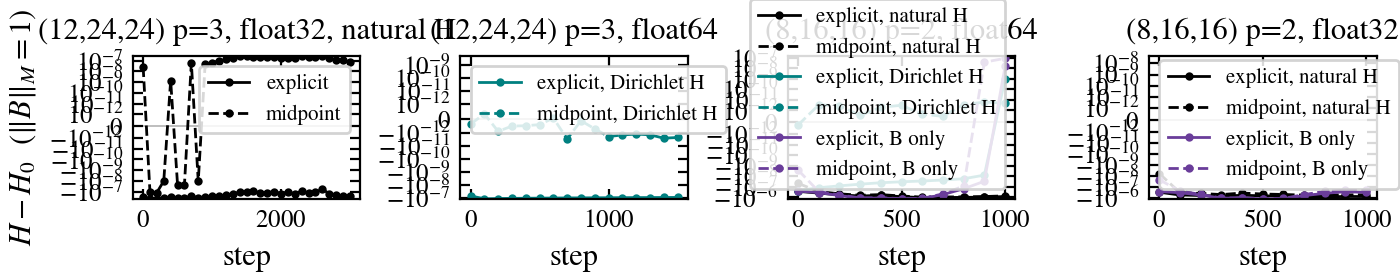
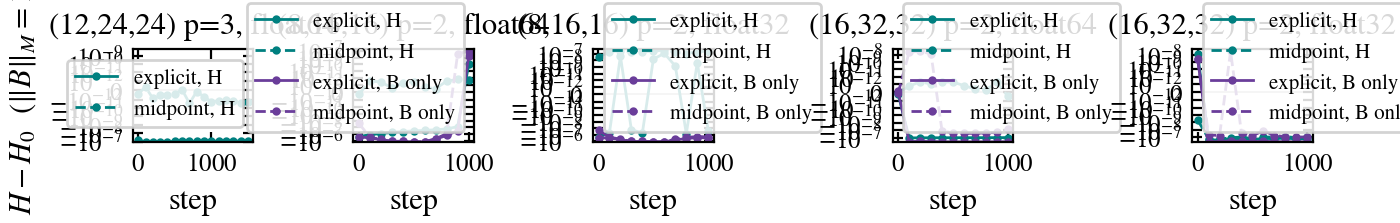
midpoint figures on midpoint-r16: Dirichlet-H and B arms only (cherry-pick of 2ffa6b8 without the pre-prune launcher), the 2x2x2 figure on the (16,32,32) arms, figures regenerated

diff --git a/scripts/midpoint_figures.py b/scripts/midpoint_figures.py
@@ -4,9 +4,11 @@
 
 Reads ``<root>/<arm>/relax.json`` and writes ``<root>/figures/*.png`` plus
 ``<root>/summary.md``. House style (:mod:`mrx.plotstyle`): colour encodes
-the H space (black natural, teal Dirichlet, purple B-only), dash the scheme
-(solid explicit, dashed midpoint); per-step traces are 100-step block means
-with a +-1 sd ribbon (``scripts/li383_pub_figures.blocked``).
+the route (teal the Dirichlet H, purple B only), dash the scheme (solid
+explicit, dashed midpoint); per-step traces are 100-step block means with
+a +-1 sd ribbon (``scripts/li383_pub_figures.blocked``). The natural-H
+arms are not plotted: with E Dirichlet and H natural the helicity pairing
+is not the conserved one (see the note); they stay in the summary table.
 """
 import argparse
 import json
@@ -17,36 +19,45 @@ import numpy as np
 from li383_pub_figures import plot_trace, plt  # scripts/ is sys.path[0]; sets the Agg backend
 from mrx.plotstyle import arm_style, figsize, house_style
 
-#: arm -> (panel, colour index, dash index, label)
+#: plotted arm -> (panel, colour index, dash index, label)
 ARMS = {
-    "ex_lbfgs":           ("f32", 0, 0, "explicit"),
-    "mp_lbfgs":           ("f32", 0, 1, "midpoint"),
-    "ex_lbfgs_f64_Hd":    ("f64", 1, 0, "explicit, Dirichlet H"),
-    "mp_lbfgs_f64_Hd":    ("f64", 1, 1, "midpoint, Dirichlet H"),
-    "ex_small_f64":       ("small", 0, 0, "explicit, natural H"),
-    "mp_small_f64":       ("small", 0, 1, "midpoint, natural H"),
-    "ex_small_f64_Hd":    ("small", 1, 0, "explicit, Dirichlet H"),
-    "mp_small_f64_Hd":    ("small", 1, 1, "midpoint, Dirichlet H"),
+    "ex_lbfgs_f64_Hd":    ("f64", 1, 0, "explicit, H"),
+    "mp_lbfgs_f64_Hd":    ("f64", 1, 1, "midpoint, H"),
+    "ex_small_f64_Hd":    ("small", 1, 0, "explicit, H"),
+    "mp_small_f64_Hd":    ("small", 1, 1, "midpoint, H"),
     "ex_small_f64_bonly": ("small", 2, 0, "explicit, B only"),
     "mp_small_f64_bonly": ("small", 2, 1, "midpoint, B only"),
-    "ex_small_f32":       ("small32", 0, 0, "explicit, natural H"),
-    "mp_small_f32":       ("small32", 0, 1, "midpoint, natural H"),
+    "ex_small_f32_Hd":    ("small32", 1, 0, "explicit, H"),
+    "mp_small_f32_Hd":    ("small32", 1, 1, "midpoint, H"),
     "ex_small_f32_bonly": ("small32", 2, 0, "explicit, B only"),
     "mp_small_f32_bonly": ("small32", 2, 1, "midpoint, B only"),
+    "ex_r16_f64_Hd":      ("r16", 1, 0, "explicit, H"),
+    "mp_r16_f64_Hd":      ("r16", 1, 1, "midpoint, H"),
+    "ex_r16_f64_bonly":   ("r16", 2, 0, "explicit, B only"),
+    "mp_r16_f64_bonly":   ("r16", 2, 1, "midpoint, B only"),
+    "ex_r16_f32_Hd":      ("r16_32", 1, 0, "explicit, H"),
+    "mp_r16_f32_Hd":      ("r16_32", 1, 1, "midpoint, H"),
+    "ex_r16_f32_bonly":   ("r16_32", 2, 0, "explicit, B only"),
+    "mp_r16_f32_bonly":   ("r16_32", 2, 1, "midpoint, B only"),
 }
+#: every arm of the study, for the summary table
+ALL_ARMS = ("ex_lbfgs", "mp_lbfgs", "ex_small_f64", "mp_small_f64",
+            "ex_small_f32", "mp_small_f32") + tuple(ARMS)
 PANELS = {
-    "f32": "(12,24,24) p=3, float32, natural H",
     "f64": "(12,24,24) p=3, float64",
     "small": "(8,16,16) p=2, float64",
     "small32": "(8,16,16) p=2, float32",
+    "r16": "(16,32,32) p=2, float64",
+    "r16_32": "(16,32,32) p=2, float32",
 }
-#: The 2 x 2 x 2 comparison: (precision, route) -> (explicit arm, midpoint arm)
+#: The 2 x 2 x 2 comparison on (16,32,32) p=2: (precision, route) -> (explicit arm, midpoint arm)
 EIGHT = {
-    ("float32", "H"): ("ex_small_f32", "mp_small_f32"),
-    ("float32", "B"): ("ex_small_f32_bonly", "mp_small_f32_bonly"),
-    ("float64", "H"): ("ex_small_f64", "mp_small_f64"),
-    ("float64", "B"): ("ex_small_f64_bonly", "mp_small_f64_bonly"),
+    ("float32", "H"): ("ex_r16_f32_Hd", "mp_r16_f32_Hd"),
+    ("float32", "B"): ("ex_r16_f32_bonly", "mp_r16_f32_bonly"),
+    ("float64", "H"): ("ex_r16_f64_Hd", "mp_r16_f64_Hd"),
+    ("float64", "B"): ("ex_r16_f64_bonly", "mp_r16_f64_bonly"),
 }
+EIGHT_MESH = "(16,32,32) p=2"
 
 
 def load(root, arm):
@@ -135,13 +146,13 @@ def picard_figure(arms, figdir):
 
 @house_style()
 def eight_figure(arms, figdir):
-    """Helicity and force traces of (route H / B only) x (float32 / float64) x
-    (explicit / midpoint) on the (8,16,16) p=2 mesh: rows the quantity,
+    """Helicity and force traces of (H / B only) x (float32 / float64) x
+    (explicit / midpoint) on the ``EIGHT_MESH`` mesh: rows the quantity,
     columns the precision, colour the route, dash the scheme."""
     d = dict(arms)
     fig, axes = plt.subplots(2, 2, figsize=figsize("text", rows=2, cols=2, aspect=0.7))
     for col, prec in enumerate(("float32", "float64")):
-        for route, colour in (("H", 0), ("B", 2)):
+        for route, colour in (("H", 1), ("B", 2)):
             for dash, arm in enumerate(EIGHT[(prec, route)]):
                 if arm not in d:
                     continue
@@ -153,7 +164,7 @@ def eight_figure(arms, figdir):
                 plot_trace(axes[1, col], j["trace"]["resid"], log=True, **st)
         axes[0, col].axhline(0, color="0.7", lw=0.6, zorder=0)
         axes[0, col].set_yscale("symlog", linthresh=1e-12)
-        axes[0, col].set(title=f"(8,16,16) p=2, {prec}", xlabel="step")
+        axes[0, col].set(title=f"{EIGHT_MESH}, {prec}", xlabel="step")
         axes[1, col].set(xscale="log", yscale="log", xlabel="step")
         axes[0, col].legend()
     axes[0, 0].set_ylabel(r"$H - H_0$  ($\|B\|_M = 1$)")
@@ -186,17 +197,17 @@ def summary(arms):
 def main():
     ap = argparse.ArgumentParser()
     ap.add_argument("--root", default="outputs/midpoint_sweep")
-    ap.add_argument("--arms", default=",".join(ARMS))
     cli = ap.parse_args()
-    arms = [(a, load(cli.root, a)) for a in cli.arms.split(",")]
-    arms = [(a, j) for a, j in arms if j is not None and j.get("trace")]
+    every = [(a, load(cli.root, a)) for a in ALL_ARMS]
+    every = [(a, j) for a, j in every if j is not None and j.get("trace")]
+    arms = [(a, j) for a, j in every if a in ARMS]
     figdir = os.path.join(cli.root, "figures")
     os.makedirs(figdir, exist_ok=True)
     helicity_figure(arms, figdir)
     descent_figure(arms, figdir)
     picard_figure(arms, figdir)
     eight_figure(arms, figdir)
-    table = summary(arms)
+    table = summary(every)
     with open(os.path.join(cli.root, "summary.md"), "w") as fh:
         fh.write(table + "\n")
     print(table)

diff --git a/docs/research/implicit_midpoint_2026-09-04/summary.md b/docs/research/implicit_midpoint_2026-09-04/summary.md
@@ -2,15 +2,25 @@
 |---|---|---|---|---|---|---|---|---|---|---|---|
 | ex_lbfgs | 3000 | steps | 0.50 | 1.00 | 0 | 0 | 0.0146% | 3.438e-03 (3.327e-03) | 1.80e-07 | -2.813e-07 | -5.622e-05 |
 | mp_lbfgs | 3000 | steps | 0.50 | 2.02 | 0 | 0 | 0.0145% | 3.045e-03 (3.273e-03) | 5.55e-05 | +7.031e-08 | +1.406e-05 |
-| ex_lbfgs_f64_Hd | 1500 | steps | 1.84 | 1.00 | 0 | 0 | 0.0179% | 1.707e-02 (1.421e-02) | 3.34e-13 | -8.693e-08 | -1.738e-05 |
-| mp_lbfgs_f64_Hd | 1500 | steps | 1.86 | 3.66 | 0 | 0 | 0.0179% | 1.172e-02 (1.432e-02) | 2.96e-05 | -2.151e-12 | -4.300e-10 |
 | ex_small_f64 | 1000 | steps | 0.37 | 1.00 | 0 | 0 | 0.0152% | 1.102e-03 (1.240e-03) | 1.42e-12 | -8.126e-07 | -1.629e-04 |
 | mp_small_f64 | 1000 | steps | 0.39 | 3.54 | 0 | 0 | 0.0151% | 1.132e-03 (1.241e-03) | 5.61e-05 | -7.033e-07 | -1.410e-04 |
+| ex_small_f32 | 1000 | steps | 0.17 | 1.00 | 0 | 0 | 0.0151% | 1.173e-03 (1.361e-03) | 1.54e-07 | -7.390e-07 | -1.482e-04 |
+| mp_small_f32 | 1000 | steps | 0.17 | 2.01 | 0 | 0 | 0.0150% | 1.466e-03 (1.445e-03) | 5.62e-05 | -5.024e-07 | -1.007e-04 |
+| ex_lbfgs_f64_Hd | 1500 | steps | 1.84 | 1.00 | 0 | 0 | 0.0179% | 1.707e-02 (1.421e-02) | 3.34e-13 | -8.693e-08 | -1.738e-05 |
+| mp_lbfgs_f64_Hd | 1500 | steps | 1.86 | 3.66 | 0 | 0 | 0.0179% | 1.172e-02 (1.432e-02) | 2.96e-05 | -2.151e-12 | -4.300e-10 |
 | ex_small_f64_Hd | 1000 | steps | 0.38 | 1.00 | 0 | 0 | 0.0257% | 5.371e-03 (6.063e-03) | 2.59e-13 | +9.868e-10 | +1.979e-07 |
 | mp_small_f64_Hd | 1000 | steps | 0.39 | 3.94 | 0 | 0 | 0.0257% | 5.637e-03 (6.154e-03) | 5.82e-05 | +4.871e-12 | +9.767e-10 |
 | ex_small_f64_bonly | 1000 | steps | 0.37 | 1.00 | 0 | 0 | 0.0156% | 1.435e-03 (1.465e-03) | 1.41e-12 | +1.443e-08 | +2.893e-06 |
 | mp_small_f64_bonly | 1000 | steps | 0.37 | 3.96 | 0 | 0 | 0.0155% | 1.283e-03 (1.454e-03) | 5.65e-05 | +8.506e-08 | +1.706e-05 |
-| ex_small_f32 | 1000 | steps | 0.17 | 1.00 | 0 | 0 | 0.0151% | 1.173e-03 (1.361e-03) | 1.54e-07 | -7.390e-07 | -1.482e-04 |
-| mp_small_f32 | 1000 | steps | 0.17 | 2.01 | 0 | 0 | 0.0150% | 1.466e-03 (1.445e-03) | 5.62e-05 | -5.024e-07 | -1.007e-04 |
+| ex_small_f32_Hd | 1000 | steps | 0.17 | 1.00 | 0 | 0 | 0.0253% | 5.855e-03 (6.539e-03) | 1.56e-07 | -2.328e-08 | -4.669e-06 |
+| mp_small_f32_Hd | 1000 | steps | 0.17 | 2.05 | 0 | 0 | 0.0255% | 5.835e-03 (6.269e-03) | 5.83e-05 | +2.393e-07 | +4.799e-05 |
 | ex_small_f32_bonly | 1000 | steps | 0.16 | 1.00 | 0 | 0 | 0.0156% | 1.335e-03 (1.542e-03) | 1.71e-07 | -3.055e-07 | -6.125e-05 |
 | mp_small_f32_bonly | 1000 | steps | 0.16 | 2.03 | 0 | 0 | 0.0156% | 1.414e-03 (1.518e-03) | 5.64e-05 | -2.054e-07 | -4.118e-05 |
+| ex_r16_f64_Hd | 1000 | steps | 2.04 | 1.00 | 0 | 0 | 0.0155% | 7.187e-03 (8.788e-03) | 3.34e-13 | -9.943e-08 | -1.988e-05 |
+| mp_r16_f64_Hd | 1000 | steps | 2.07 | 3.80 | 0 | 0 | 0.0155% | 7.187e-03 (8.767e-03) | 9.06e-08 | -4.600e-13 | -9.197e-11 |
+| ex_r16_f64_bonly | 1000 | steps | 2.01 | 1.00 | 0 | 0 | 0.0142% | 7.543e-03 (8.214e-03) | 3.47e-13 | -3.594e-07 | -7.186e-05 |
+| mp_r16_f64_bonly | 1000 | steps | 2.03 | 3.95 | 0 | 0 | 0.0141% | 8.789e-03 (8.033e-03) | 5.14e-07 | -7.857e-09 | -1.571e-06 |
+| ex_r16_f32_Hd | 1000 | steps | 0.58 | 1.00 | 0 | 0 | 0.0155% | 7.324e-03 (9.436e-03) | 1.56e-07 | -1.523e-07 | -3.044e-05 |
+| mp_r16_f32_Hd | 1000 | steps | 0.59 | 2.10 | 0 | 0 | 0.0154% | 1.163e-02 (9.455e-03) | 1.86e-07 | -1.024e-07 | -2.048e-05 |
+| ex_r16_f32_bonly | 1000 | steps | 0.56 | 1.00 | 0 | 0 | 0.0141% | 9.785e-03 (8.297e-03) | 2.20e-07 | -4.233e-07 | -8.463e-05 |
+| mp_r16_f32_bonly | 1000 | steps | 0.58 | 2.02 | 0 | 0 | 0.0141% | 7.815e-03 (8.184e-03) | 4.72e-07 | -9.313e-08 | -1.862e-05 |
